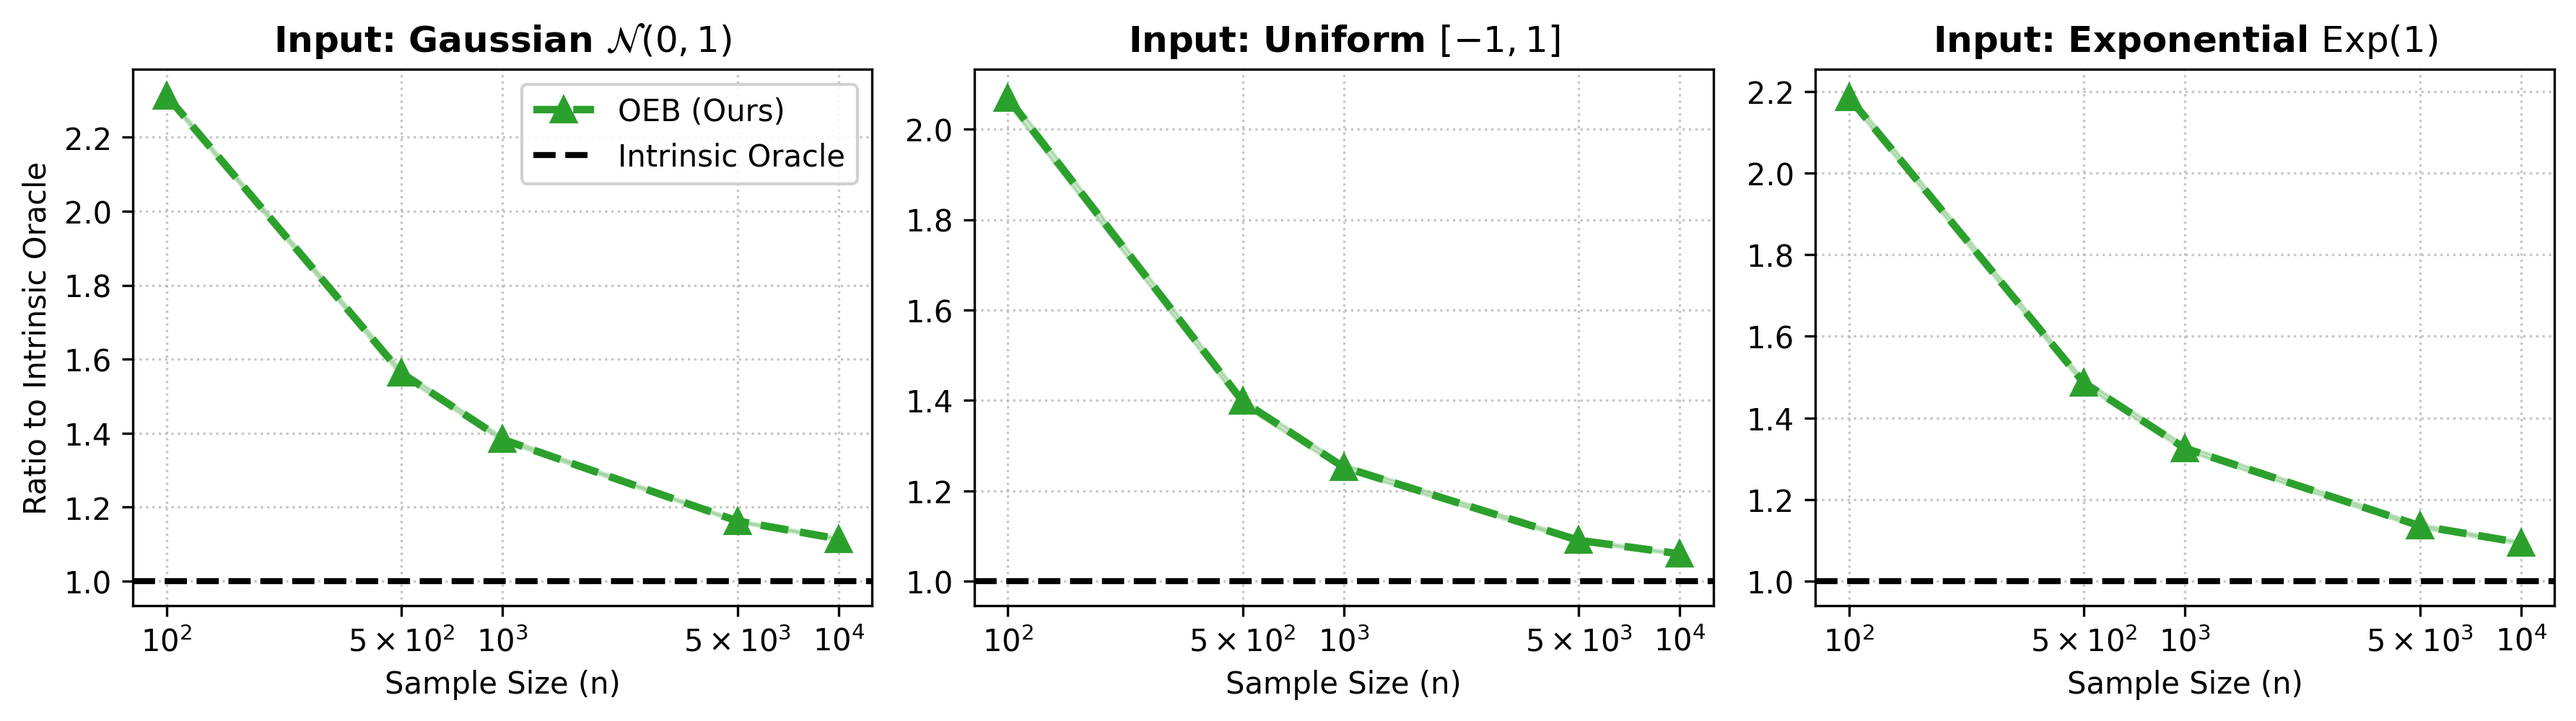
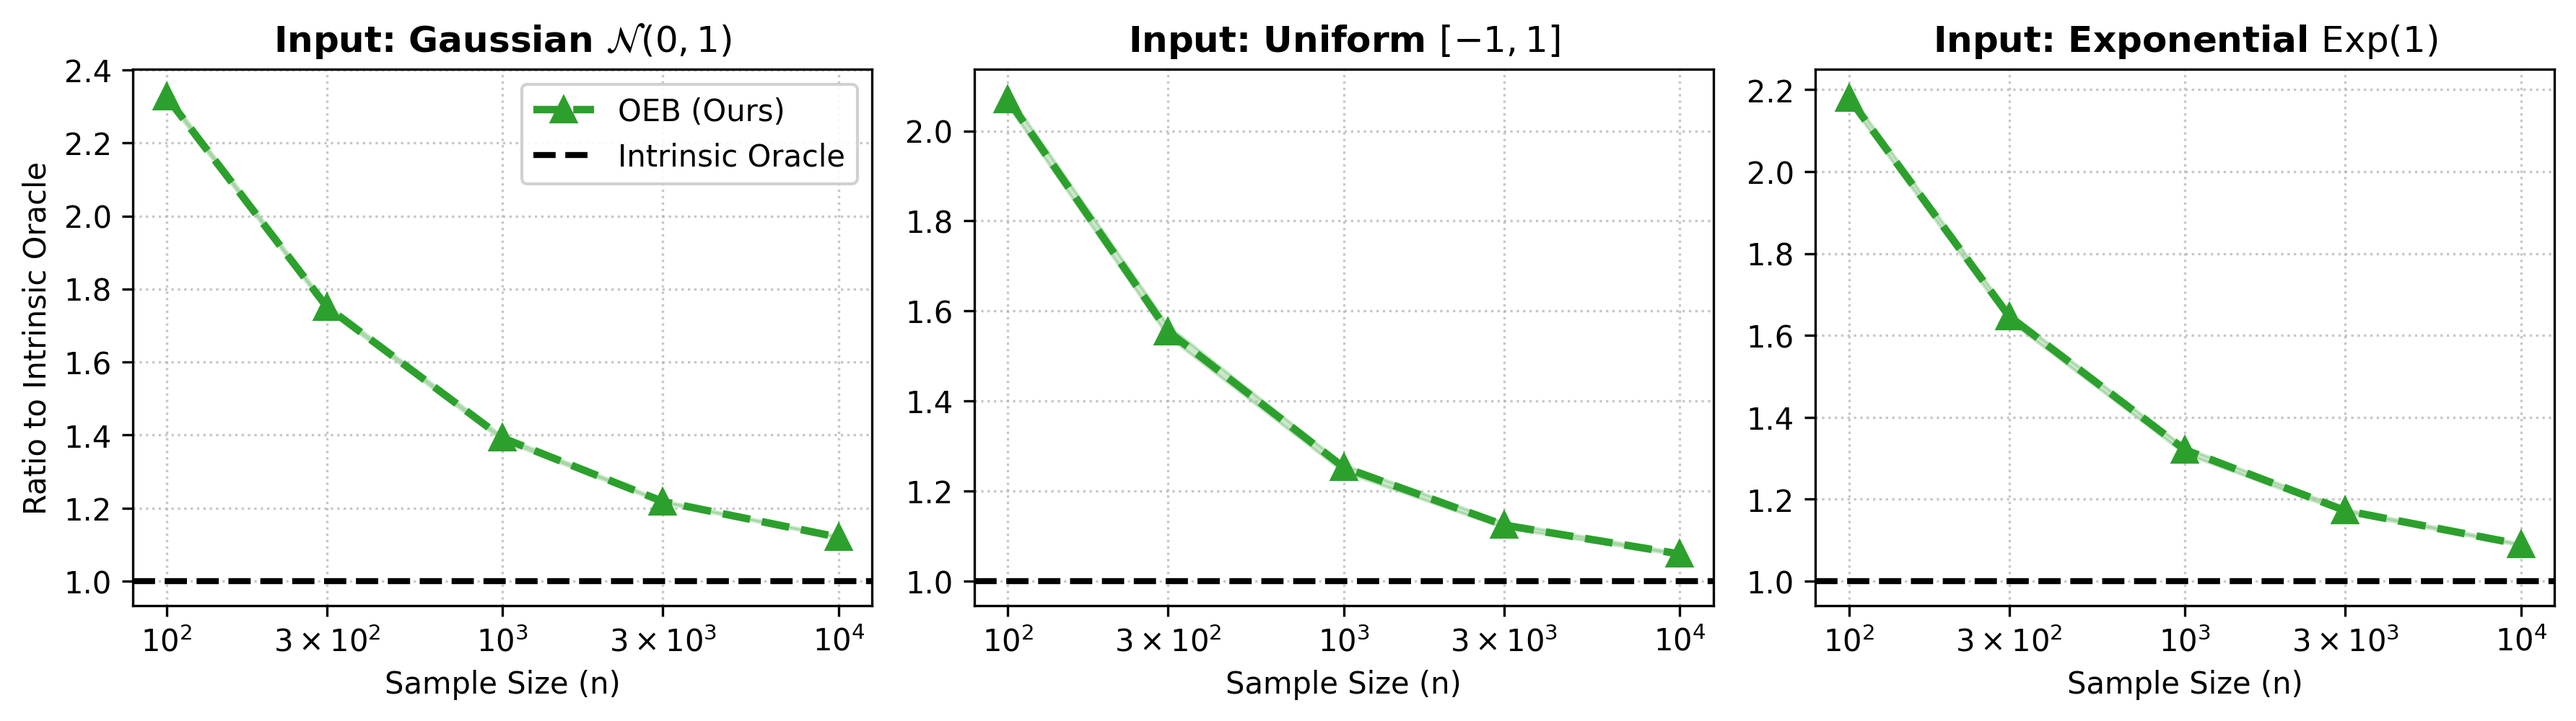
Everything working fine. I will change it so that it saves data as opposed to plots

diff --git a/run_kpca_simluations.py b/run_kpca_simluations.py
@@ -3,39 +3,41 @@ import pandas as pd
 import matplotlib.pyplot as plt
 import matplotlib.ticker as ticker
 from tqdm import tqdm
-from scipy.sparse.linalg import eigs  # <-- The key to making this fast!
+from scipy.sparse.linalg import eigs
 
 def rbf_kernel(X, Y=None, gamma=0.1):
+    """Gaussian RBF Kernel"""
     if Y is None: Y = X
     sq_dists = np.sum(X**2, axis=1).reshape(-1, 1) + np.sum(Y**2, axis=1) - 2 * np.dot(X, Y.T)
     return np.exp(-gamma * sq_dists)
 
-def laplace_kernel(X, Y=None, gamma=0.1):
-    if Y is None: Y = X
-    diffs = X[:, np.newaxis, :] - Y[np.newaxis, :, :]
-    dists = np.sum(np.abs(diffs), axis=2)
-    return np.exp(-gamma * dists)
+def simulate_kpca_distributions(n_values, d=10, alpha=0.05, trials=20):
 
-def simulate_kpca_exact(n_values, d=10, alpha=0.05, trials=20):
-    scenarios = {
-        "Gaussian RBF Kernel": rbf_kernel,
-        "Laplace Kernel": laplace_kernel
+    np.random.seed(42)
+
+    
+    # Define the three input data generating distributions
+    distributions = {
+        "Gaussian $\\mathcal{N}(0, 1)$": lambda n, dim: np.random.normal(0, 1, size=(n, dim)),
+        "Uniform $[-1, 1]$": lambda n, dim: np.random.uniform(-1, 1, size=(n, dim)),
+        "Exponential $\\text{Exp}(1)$": lambda n, dim: np.random.exponential(1, size=(n, dim))
     }
     
     results = []
 
-    for kernel_name, kernel_fn in scenarios.items():
-        print(f"\n--- Processing {kernel_name} ---")
+    for dist_name, data_fn in distributions.items():
+        print(f"\n--- Processing Distribution: {dist_name} ---")
         
-        # OPTIMIZATION 1: Reduce N_pop to 3000. 
-        # The spectrum converges very fast, 10,000 is overkill and causes O(N^3) stalling.
+        # 1. Oracle Computation (Offline via Monte Carlo)
         N_pop = 2000
-        X_pop = np.random.normal(0, 1, size=(N_pop, d))
-        K_pop = kernel_fn(X_pop)
+        X_pop = data_fn(N_pop, d)
+        K_pop = rbf_kernel(X_pop)
         
+        # Eigenvalues of Sigma are 1/N * eigenvalues of K
         eigenvalues = np.linalg.eigvalsh(K_pop) / N_pop
         eigenvalues = np.clip(eigenvalues, 0, None) 
         
+        # True variance operator V = Sigma - Sigma^2
         gamma_j = eigenvalues * (1 - eigenvalues)
         norm_V = np.max(gamma_j)
         tr_V = np.sum(gamma_j)
@@ -48,26 +50,27 @@ def simulate_kpca_exact(n_values, d=10, alpha=0.05, trials=20):
             assert n % 4 == 0
             r_n_list = []
             
+            # Intrinsic Oracle Baseline
             log_term_oracle = np.log((2 / alpha) * true_intrinsic_dim)
             d_oracle = np.sqrt((2 * norm_V * log_term_oracle) / n) + ((c_bound / (3 * n)) * log_term_oracle)
 
             for _ in tqdm(range(trials), desc=f"n={n}"):
-                X = np.random.normal(0, 1, size=(n, d))
-                K = kernel_fn(X) 
+                X = data_fn(n, d)
+                K = rbf_kernel(X) 
                 
+                # --- EXACT DRAFT OEB VIA KERNEL TRICK ---
                 delta = alpha
                 d1, d2, d3 = ((n - 2) * delta) / n, delta / n, delta / n
                 
-                # 1. Compute Traces of X_i' (Level 1)
+                # Level 1 Traces
                 Z_tr = np.zeros(n // 2)
                 for i in range(n // 2):
-                    k_i = K[2*i, 2*i+1]
-                    Z_tr[i] = 1 - (k_i ** 2)
+                    Z_tr[i] = 1 - (K[2*i, 2*i+1] ** 2)
                 
                 tr_Sigma_n = (2 / n) * np.sum(Z_tr)
                 varsigma_Z = np.std(Z_tr, ddof=1)
                 
-                # 2. Compute Operator Norm of Sigma_n (Level 1)
+                # Level 1 Operator Norm
                 M = np.zeros((n, n))
                 for i in range(n // 2):
                     k_i = K[2*i, 2*i+1]
@@ -77,16 +80,14 @@ def simulate_kpca_exact(n_values, d=10, alpha=0.05, trials=20):
                     M[2*i+1, 2*i] = -k_i
                 M = M / n 
                 
-                # OPTIMIZATION 2: Use scipy.sparse.linalg.eigs to find ONLY the top eigenvalue
-                # This drops complexity from O(n^3) to O(n^2).
-                KM = K @ M
-                top_eval, _ = eigs(KM, k=1, which='LR', tol=1e-3)
+                # Fast Arnoldi iteration for top eigenvalue
+                top_eval, _ = eigs(K @ M, k=1, which='LR', tol=1e-3)
                 norm_Sigma_n = np.real(top_eval[0])
                 
                 tau_u = tr_Sigma_n + varsigma_Z * np.sqrt((2 * np.log(2 / d2)) / (n / 2)) + \
                         (7 * (2 * B_bound) * np.log(2 / d2)) / (3 * ((n / 2) - 1))
                 
-                # 3. Compute Traces of X_i'' (Level 2)
+                # Level 2 Traces
                 Z_prime_tr = np.zeros(n // 4)
                 for i in range(n // 4):
                     idx_A1, idx_A2 = 4*i, 4*i+1
@@ -124,7 +125,7 @@ def simulate_kpca_exact(n_values, d=10, alpha=0.05, trials=20):
 
             draft_ratios = np.array(r_n_list) / d_oracle
             results.append({
-                "Scenario": kernel_name,
+                "Distribution": dist_name,
                 "n": n,
                 "Draft Mean": np.mean(draft_ratios),
                 "Draft Lower": np.percentile(draft_ratios, 2.5),
@@ -133,19 +134,18 @@ def simulate_kpca_exact(n_values, d=10, alpha=0.05, trials=20):
 
     return pd.DataFrame(results)
 
-
-def plot_infinite_kpca(df_results, filename="kpca_infinite_plot.png"):
-    scenarios = df_results["Scenario"].unique()
-    fig, axes = plt.subplots(1, 2, figsize=(8, 4))
+def plot_infinite_kpca(df_results, filename="kpca_distributions_plot.png"):
+    distributions = df_results["Distribution"].unique()
+    fig, axes = plt.subplots(1, 3, figsize=(12, 3.5))
     
     def format_sci(n):
         exponent = int(np.log10(n))
         coeff = int(n / (10**exponent))
         return f"$10^{{{exponent}}}$" if coeff == 1 else f"${coeff} \\times 10^{{{exponent}}}$"
 
-    for i, scenario in enumerate(scenarios):
+    for i, dist in enumerate(distributions):
         ax = axes[i]
-        group = df_results[df_results["Scenario"] == scenario]
+        group = df_results[df_results["Distribution"] == dist]
         n_vals = group["n"].values
         
         ax.plot(n_vals, group["Draft Mean"], '^--', color="#2ca02c", linewidth=2.5, markersize=8, label="OEB (Ours)")
@@ -153,7 +153,7 @@ def plot_infinite_kpca(df_results, filename="kpca_infinite_plot.png"):
         ax.axhline(y=1.0, color="black", linestyle="--", linewidth=2, label="Intrinsic Oracle")
         
         ax.set_xscale("log")
-        ax.set_title(scenario, fontweight="bold")
+        ax.set_title(f"Input: {dist}", fontweight="bold")
         ax.set_xlabel("Sample Size (n)")
         
         if i == 0:
@@ -167,11 +167,9 @@ def plot_infinite_kpca(df_results, filename="kpca_infinite_plot.png"):
 
     plt.tight_layout()
     plt.savefig(filename, dpi=300, bbox_inches="tight")
-    print(f"Saved exact KPCA plot to {filename}")
+    print(f"Saved exact KPCA distributions plot to {filename}")
 
-
-# Run with exactly the same plot function as before
-n_values = [1000, 2000, 4000, 8000]
-df = simulate_kpca_exact(n_values, trials=20)
-plot_infinite_kpca(df) # <-- Add your plotting call back here
-
+# Run
+n_values = [100, 300, 1000, 3000, 10000, 30000]
+df = simulate_kpca_distributions(n_values, trials=20)
+plot_infinite_kpca(df)

diff --git a/neurips_simulation_tables.tex b/neurips_simulation_tables.tex
@@ -13,23 +13,23 @@
  &  & Ambient Oracle / Intrinsic & MEB 1 Mean & MEB 1 Lower & MEB 1 Upper & Draft Mean & Draft Lower & Draft Upper & MEB 2 Mean & MEB 2 Lower & MEB 2 Upper \\
 Scenario & n &  &  &  &  &  &  &  &  &  &  \\
 \midrule
-\multirow[t]{5}{*}{Completely Isotropic} & 10000 & 1.000 & 1.219 & 1.208 & 1.232 & 1.165 & 1.157 & 1.174 & 1.034 & 1.023 & 1.053 \\
- & 30000 & 1.000 & 1.131 & 1.124 & 1.137 & 1.072 & 1.066 & 1.077 & 1.024 & 1.013 & 1.044 \\
- & 100000 & 1.000 & 1.075 & 1.072 & 1.078 & 1.032 & 1.029 & 1.034 & 1.018 & 1.009 & 1.037 \\
- & 300000 & 1.000 & 1.045 & 1.043 & 1.047 & 1.017 & 1.015 & 1.018 & 1.016 & 1.006 & 1.034 \\
- & 1000000 & 1.000 & 1.025 & 1.024 & 1.027 & 1.009 & 1.008 & 1.010 & 1.015 & 1.003 & 1.032 \\
+\multirow[t]{5}{*}{Completely Isotropic} & 10000 & 1.000 & 1.218 & 1.209 & 1.235 & 1.165 & 1.158 & 1.178 & 1.035 & 1.023 & 1.053 \\
+ & 30000 & 1.000 & 1.131 & 1.125 & 1.139 & 1.072 & 1.066 & 1.079 & 1.025 & 1.013 & 1.041 \\
+ & 100000 & 1.000 & 1.075 & 1.071 & 1.079 & 1.032 & 1.028 & 1.036 & 1.017 & 1.007 & 1.037 \\
+ & 300000 & 1.000 & 1.045 & 1.043 & 1.046 & 1.016 & 1.015 & 1.018 & 1.017 & 1.004 & 1.033 \\
+ & 1000000 & 1.000 & 1.025 & 1.024 & 1.027 & 1.009 & 1.008 & 1.010 & 1.014 & 1.005 & 1.032 \\
 \cline{1-12}
-\multirow[t]{5}{*}{Completely Anisotropic} & 10000 & 1.142 & 1.382 & 1.362 & 1.406 & 1.187 & 1.171 & 1.205 & 1.176 & 1.160 & 1.197 \\
- & 30000 & 1.141 & 1.287 & 1.279 & 1.296 & 1.077 & 1.071 & 1.085 & 1.160 & 1.152 & 1.175 \\
- & 100000 & 1.140 & 1.222 & 1.218 & 1.229 & 1.029 & 1.025 & 1.035 & 1.153 & 1.144 & 1.171 \\
- & 300000 & 1.140 & 1.189 & 1.186 & 1.192 & 1.013 & 1.011 & 1.016 & 1.154 & 1.143 & 1.179 \\
- & 1000000 & 1.139 & 1.168 & 1.166 & 1.169 & 1.007 & 1.005 & 1.008 & 1.149 & 1.141 & 1.165 \\
+\multirow[t]{5}{*}{Completely Anisotropic} & 10000 & 1.142 & 1.384 & 1.369 & 1.395 & 1.188 & 1.177 & 1.196 & 1.178 & 1.163 & 1.200 \\
+ & 30000 & 1.141 & 1.286 & 1.274 & 1.295 & 1.077 & 1.067 & 1.084 & 1.163 & 1.151 & 1.180 \\
+ & 100000 & 1.140 & 1.223 & 1.218 & 1.228 & 1.029 & 1.025 & 1.034 & 1.156 & 1.145 & 1.182 \\
+ & 300000 & 1.140 & 1.189 & 1.186 & 1.192 & 1.013 & 1.010 & 1.016 & 1.151 & 1.143 & 1.172 \\
+ & 1000000 & 1.139 & 1.168 & 1.166 & 1.169 & 1.006 & 1.005 & 1.008 & 1.149 & 1.141 & 1.170 \\
 \cline{1-12}
-\multirow[t]{5}{*}{Polynomial Decay} & 10000 & 1.130 & 1.367 & 1.353 & 1.381 & 1.181 & 1.171 & 1.192 & 1.164 & 1.152 & 1.185 \\
- & 30000 & 1.130 & 1.273 & 1.261 & 1.282 & 1.075 & 1.064 & 1.082 & 1.149 & 1.140 & 1.166 \\
- & 100000 & 1.129 & 1.211 & 1.205 & 1.216 & 1.029 & 1.024 & 1.033 & 1.142 & 1.135 & 1.163 \\
- & 300000 & 1.129 & 1.177 & 1.174 & 1.180 & 1.013 & 1.010 & 1.015 & 1.138 & 1.131 & 1.153 \\
- & 1000000 & 1.128 & 1.156 & 1.155 & 1.158 & 1.006 & 1.005 & 1.008 & 1.136 & 1.130 & 1.155 \\
+\multirow[t]{5}{*}{Polynomial Decay} & 10000 & 1.130 & 1.370 & 1.356 & 1.387 & 1.184 & 1.174 & 1.197 & 1.164 & 1.149 & 1.185 \\
+ & 30000 & 1.130 & 1.273 & 1.264 & 1.281 & 1.075 & 1.067 & 1.081 & 1.150 & 1.141 & 1.171 \\
+ & 100000 & 1.129 & 1.211 & 1.206 & 1.216 & 1.029 & 1.025 & 1.033 & 1.142 & 1.134 & 1.160 \\
+ & 300000 & 1.129 & 1.178 & 1.175 & 1.180 & 1.013 & 1.010 & 1.015 & 1.140 & 1.132 & 1.163 \\
+ & 1000000 & 1.128 & 1.156 & 1.155 & 1.158 & 1.006 & 1.005 & 1.008 & 1.138 & 1.130 & 1.163 \\
 \cline{1-12}
 \bottomrule
 \end{tabular}

diff --git a/run_meb_simulations.py b/run_meb_simulations.py
@@ -149,7 +149,6 @@ def simulate_inequalities(n_values, d=100, alpha=0.05, trials=50, run_meb2=True)
     return pd.DataFrame(results)
 
 
-
 def save_latex_tables(df_results, filename="neurips_simulation_table.tex"):
     """
     Converts the results DataFrame into a single, unified publication-ready 
@@ -192,7 +191,6 @@ def save_latex_tables(df_results, filename="neurips_simulation_table.tex"):
         f.write(latex_wrapper)
             
     print(f"\n[+] Success! A single unified LaTeX table has been saved to '{filename}'")
-
 
 
 def save_plots(df_results, filename="neurips_simulation_plot.png"):
@@ -275,5 +273,5 @@ for scenario, group in df_results.groupby("Scenario"):
     print(group[display_cols].to_string(index=False))
 
 # Save the LaTeX tables to file
-save_latex_tables(df_results, filename="neurips_simulation_tables.tex")
+#save_latex_tables(df_results, filename="neurips_simulation_tables.tex")
 save_plots(df_results, filename="neurips_simulation_plot.png")

diff --git a/README.md b/README.md
@@ -1,0 +1,14 @@
+# Reproducibility Code: Intrinsic-Dimension Empirical Bernstein Inequalities
+
+This repository contains the Python scripts to reproduce the empirical simulations for the NeurIPS submission: **"Intrinsic-dimension empirical Bernstein inequalities for bounded self-adjoint operators."**
+
+The code is divided into two distinct experiments:
+1. `run_meb_simulations.py`: Evaluates the Operator Empirical Bernstein (OEB) bound against state-of-the-art ambient bounds under varying spectral geometries.
+2. `run_kpca_simulations.py`: Demonstrates the application of OEB to infinite-dimensional Reproducing Kernel Hilbert Spaces (RKHS) via Kernel PCA.
+
+## Requirements
+
+The simulations are written in standard Python and rely on common scientific computing libraries. To install the required dependencies, run:
+
+```bash
+pip install numpy pandas matplotlib scipy tqdm
